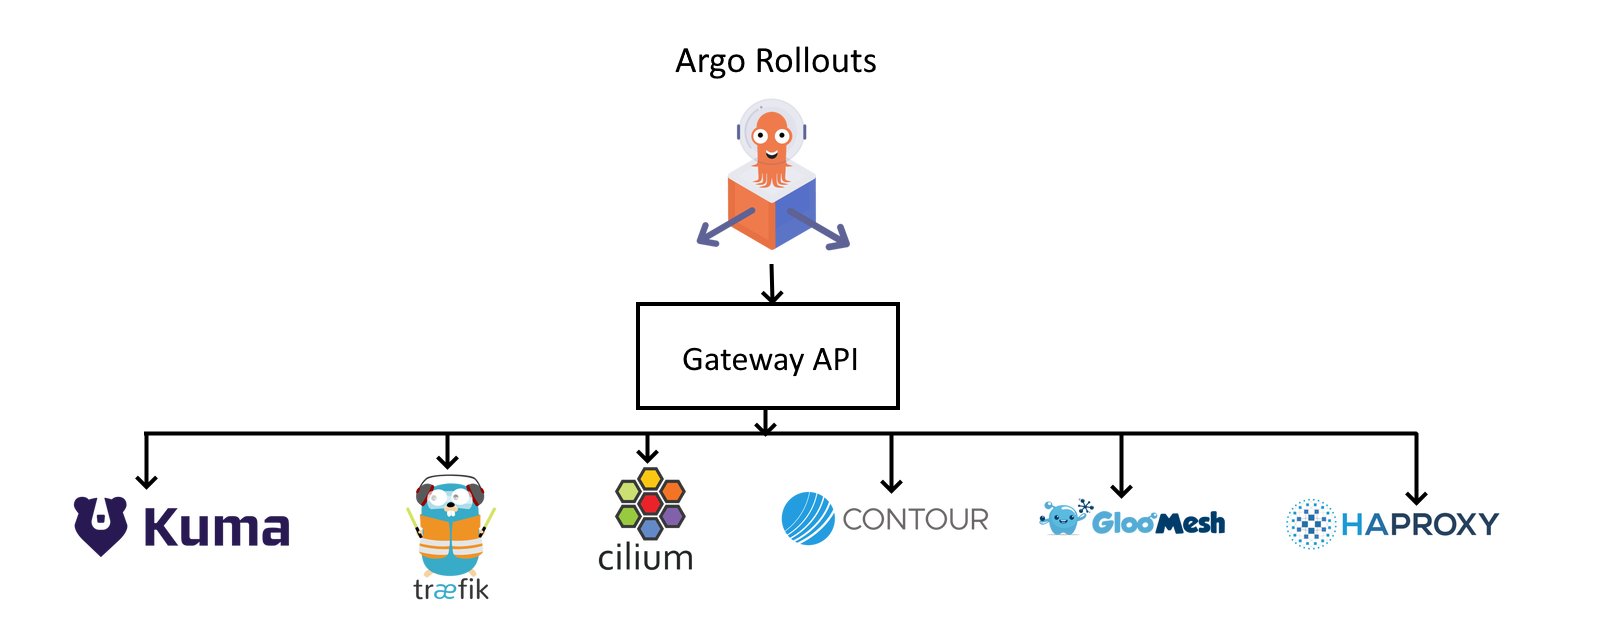
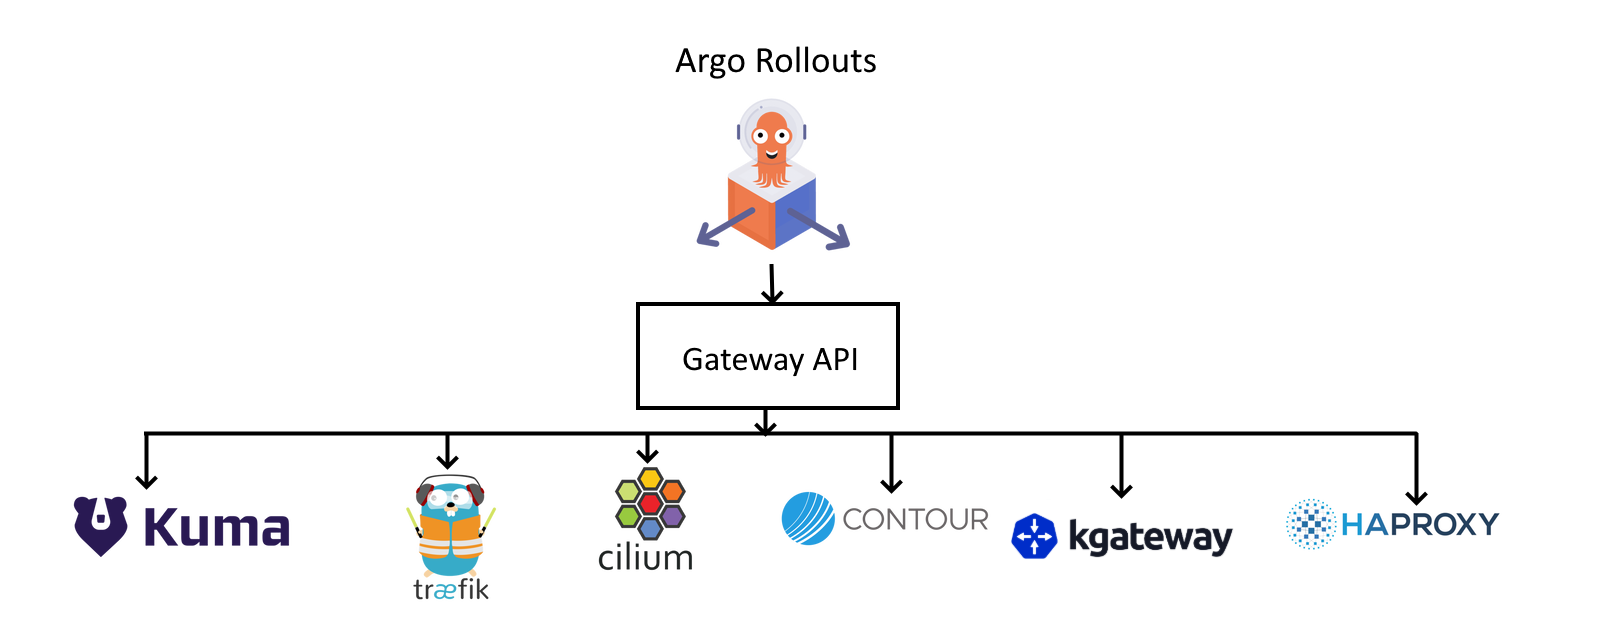
Add kgateway in provider list (#175)
* add kgateway in provider list

* update gloo gateway version

* update visual

* Update docs/provider-status.md

* remove Gloo Gateway as discussed in the PR

* change version

---------

diff --git a/docs/provider-status.md b/docs/provider-status.md
@@ -19,12 +19,12 @@ For convenience we are including here a list of those actually tested with the p
 | [Istio](https://istio.io/)     | 1.29.1 | 1.4.0 | 0.11.0 | [Example](https://github.com/argoproj-labs/rollouts-plugin-trafficrouter-gatewayapi/tree/main/examples/istio)    |
 | [Cilium](https://cilium.io/)     | 1.18.2 | 1.2.0 | 0.8.0 | [Example](https://github.com/argoproj-labs/rollouts-plugin-trafficrouter-gatewayapi/tree/main/examples/cilium-header-based)    |
 | [Envoy Gateway](https://gateway.envoyproxy.io/)     | 0.5.0  |   Unknown  | 0.2.0 | [Example](https://github.com/argoproj-labs/rollouts-plugin-trafficrouter-gatewayapi/tree/main/examples/envoygateway)    |
-| [Gloo Gateway](https://docs.solo.io/gloo-gateway/v2/)     | 2.0.0-beta | 1.0      | 0.2.0 | [Example](https://github.com/argoproj-labs/rollouts-plugin-trafficrouter-gatewayapi/tree/main/examples/gloo-gateway)    |
 | [Google Cloud](https://cloud.google.com/kubernetes-engine/docs/concepts/gateway-api)     | N/A | 0.7.0      | 0.2.0 | [Example](https://github.com/argoproj-labs/rollouts-plugin-trafficrouter-gatewayapi/tree/main/examples/google-cloud)    |
 | [Kong](https://docs.konghq.com/kubernetes-ingress-controller/latest/concepts/gateway-api/)     | 2.9.x  | 0.7.1    | 0.2.0 | [Example](https://github.com/argoproj-labs/rollouts-plugin-trafficrouter-gatewayapi/tree/main/examples/kong)    |
 | [Linkerd](https://linkerd.io/)     | edge-25.9.4 |   1.2.1    | 0.8.0 | [Example](https://github.com/argoproj-labs/rollouts-plugin-trafficrouter-gatewayapi/tree/main/examples/linkerd-header-based)    |
 | [NGINX Gateway](https://github.com/nginxinc/nginx-gateway-fabric)     | Unknown | 0.8.0      | 0.2.0 | [Example](https://github.com/argoproj-labs/rollouts-plugin-trafficrouter-gatewayapi/tree/main/examples/nginx)    |
 | [Traefik](https://doc.traefik.io/traefik/providers/kubernetes-gateway/)     | 3.1.3 | 1.1      | 0.4.0 | [Example](https://github.com/argoproj-labs/rollouts-plugin-trafficrouter-gatewayapi/tree/main/examples/traefik)    |
+| [kgateway](https://kgateway.dev/)     | 2.2.2 | 1.4.0 | 0.11.0 | [Example](https://github.com/argoproj-labs/rollouts-plugin-trafficrouter-gatewayapi/tree/main/examples/kgateway)    |
 
 Note that these examples are included just for completeness. You should be able
 to use any solution that implements the Gateway API. 
